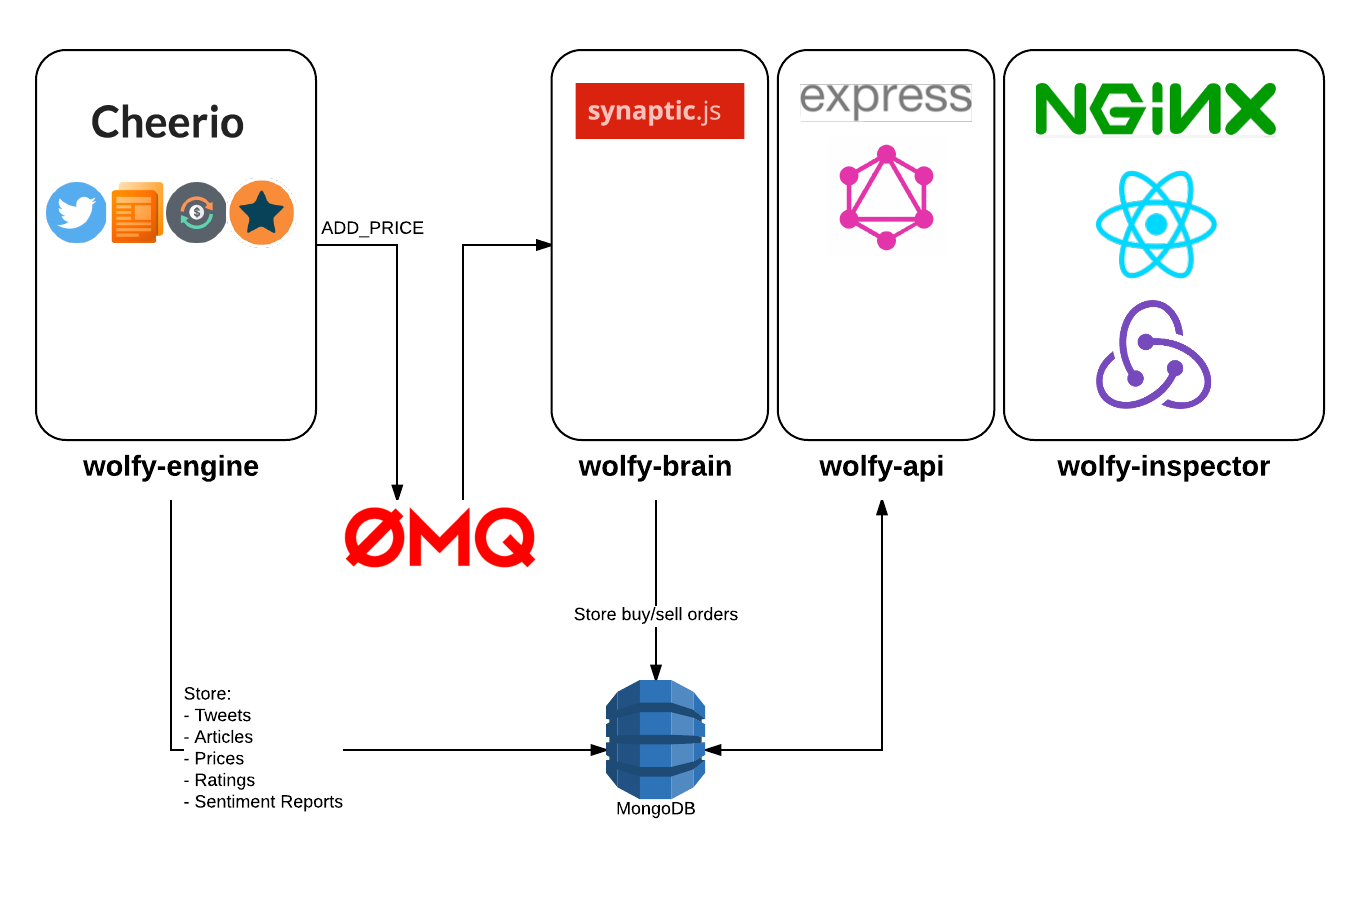
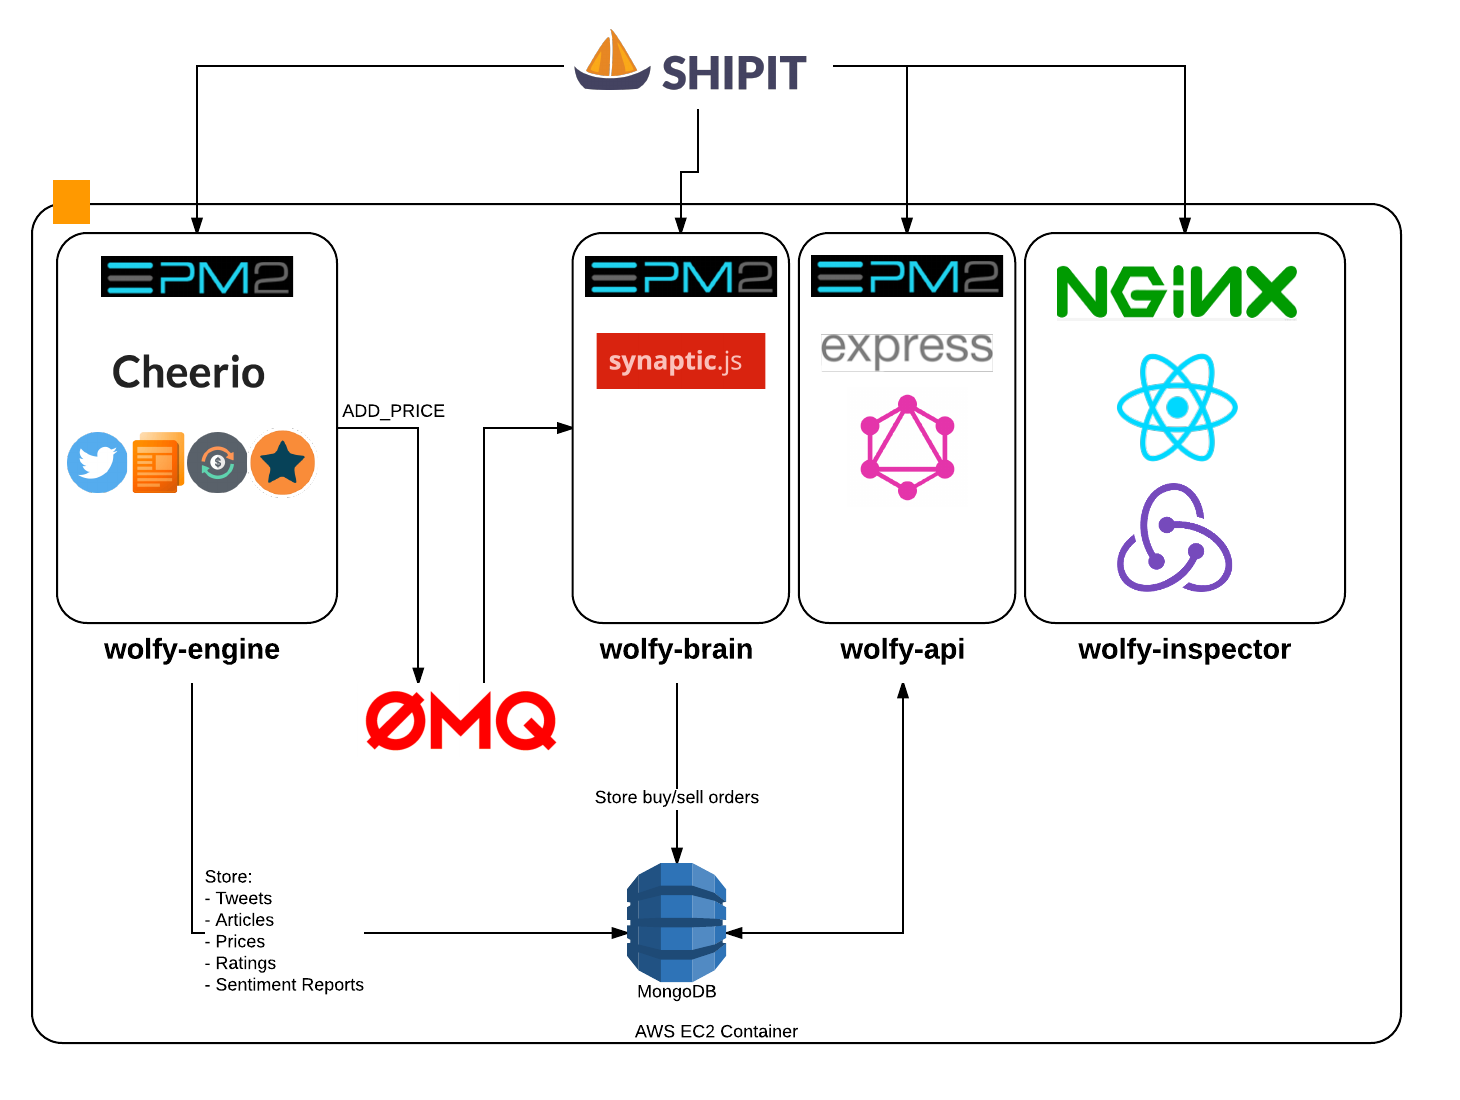
Add readme file

diff --git a/README.md b/README.md
@@ -1,0 +1,47 @@
+# Wolfy
+![The Wolfy Of Wall Street](https://github.com/canastro/wolfy-resources/blob/master/The-Wolf-of-Wall-Street.png?raw=true "Wolfy Of Wall Street")
+
+## Goal
+This is a project built for academic reasons only, and its my attempt to gather multiple sources of knowledge and make wiser decisions on when to buy/sell securities.
+
+## How it works?
+### Data collected:
+At the moment this project collects the following information:
+* Articles from bloomberg, cnbc, reuters, seeking-alpha, wcj and yahoo;
+* Tweets;
+* Ratings;
+* Prices;
+
+### Process Data:
+* **Sentiment analysis:** From the articles and tweets is extracted the sentiment. The sentiment of a tweet also reflects the number of followers and the number of favorites (the ratio that this impacts the sentiment still needs some testing to reach more realistic values).
+* **Technical Analysis:** From the price variations the engine will look for known patterns to trigger alerts of possible changes (WORK IN PROGRESS)
+* **Neural Network:** Taking advantage of the massive amount of available data, a neural network is fed with prices and it will try to learn to predict how normally price oscillations occur.
+
+## Technical Details
+### Architecture
+![Architecture](https://github.com/canastro/wolfy-resources/blob/master/Wolfy%20-%20Wolfy%20Diagram.png?raw=true "Architecture")
+
+This project is modular and is composed by the following modules:
+* [**wolfy-models**](https://github.com/canastro/wolfy-models) - Models used by all of the other modules
+*  [**wolfy-engine**](https://github.com/canastro/wolfy-engine) - Engine that fetches for prices, articles, tweets, ratings and produces reports on these. It also sends a message ZMQ when a new price is fetched
+*  [**wolfy-brain**](https://github.com/canastro/wolfy-brain) - Neural Network that decides if a security should sold or bought
+* [**wolfy-api**](https://github.com/canastro/wolfy-api) - API built with GraphQL
+*  [**wolfy-inspector**](https://github.com/canastro/wolfy-inspector) - Frontend application with react & redux
+
+## Technology
+Some of the relevant libraries used:
+* **cheerio** - used for webscraping
+* **commander** - Command-line interfaces
+* **graffiti & graffiti-mongoose** - wrapper around graphql which remove some boilerplate reusing the models from mongoose and offering queries and mutations out of the box
+* **graphql** - instead of the traditional RESTfull services
+* **mongodb** - free and open-source cross-platform nosql database
+* **nginx** - HTTP and reverse proxy server, a mail proxy server, and a generic TCP/UDP proxy server
+* **node-schedule** - job scheduler with DSL similar to unix cronjob
+* **nodemailer** - to send out emails with the daily reports
+* **pm2** - Production process manager for Node.js apps with a built-in load balancer
+* **sentiment** - AFINN-based sentiment analysis library
+* **shipit** - Universal automation and deployment tool written in JavaScript.
+* **synaptic** - Architecture-free neural network library
+* **twit** - use twitter API
+* **winston** - logging
+* **zmq** - ZeroMQ, a queue library
